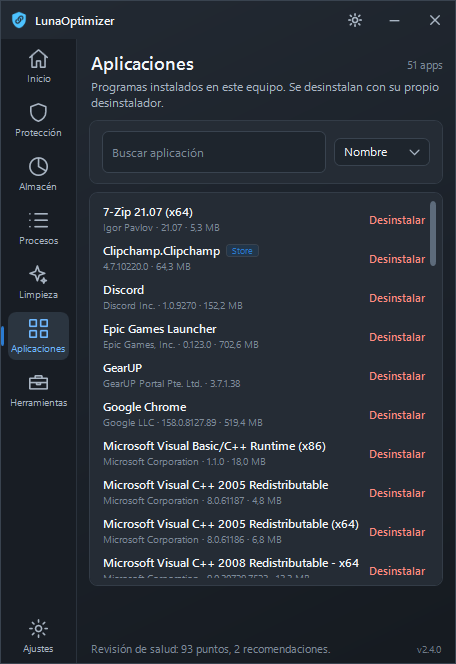
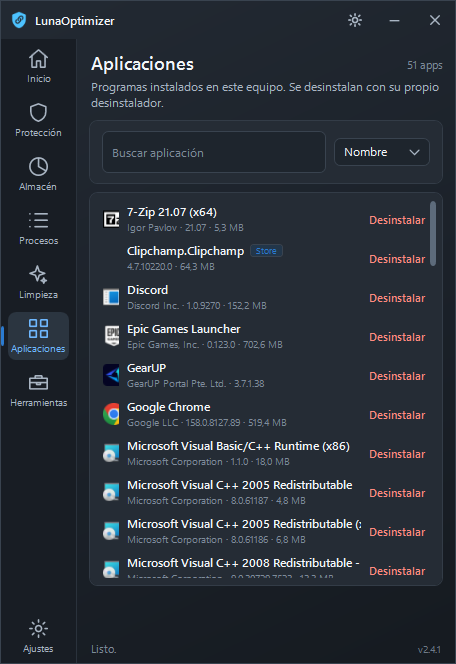
feat: iconos en la lista de apps y alineacion (v2.4.1)
- InstalledApp.Icon: se saca del DisplayIcon del registro (acepta ',0',
  comillas y variables de entorno) o del .exe mas grande de la carpeta de
  instalacion, en paralelo y con tope de 5 s.
- Las filas sin icono reservan el mismo ancho: el texto queda alineado.
- Nombre con MaxWidth + ellipsis para que no se meta debajo de Desinstalar.

Changed region(s): [[0.2149, 0.3012, 0.7982, 0.8735], [0.1842, 0.9639, 0.7061, 0.994], [0.9211, 0.9639, 0.9825, 0.994]]

diff --git a/LunaOptimizer/Views/AppsView.xaml b/LunaOptimizer/Views/AppsView.xaml
@@ -67,14 +67,19 @@
                         <DataTemplate>
                             <Grid>
                                 <Grid.ColumnDefinitions>
+                                    <ColumnDefinition Width="24"/>
                                     <ColumnDefinition Width="*"/>
                                     <ColumnDefinition Width="Auto"/>
                                 </Grid.ColumnDefinitions>
-                                <StackPanel Grid.Column="0" VerticalAlignment="Center" Margin="0,0,8,0">
+                                <!-- Siempre ocupa 22 px: si la app no tiene icono, el
+                                     texto igual queda alineado con las demas filas. -->
+                                <Image Source="{Binding Icon}" Width="22" Height="22" Stretch="Uniform"
+                                       VerticalAlignment="Center" Margin="0,0,8,0"/>
+                                <StackPanel Grid.Column="1" VerticalAlignment="Center" Margin="0,0,8,0">
                                     <StackPanel Orientation="Horizontal">
                                         <TextBlock Text="{Binding Name}" FontSize="11.5" FontWeight="SemiBold"
                                                    Foreground="{DynamicResource B_Text}"
-                                                   TextTrimming="CharacterEllipsis"/>
+                                                   TextTrimming="CharacterEllipsis" MaxWidth="190"/>
                                         <Border Margin="6,0,0,0" VerticalAlignment="Center" Padding="5,0"
                                                 CornerRadius="3" BorderThickness="1"
                                                 BorderBrush="{DynamicResource B_Border}"
@@ -97,7 +102,7 @@
                                                Foreground="{DynamicResource B_Muted}"
                                                TextTrimming="CharacterEllipsis" Margin="0,1,0,0"/>
                                 </StackPanel>
-                                <Button Grid.Column="1" Content="Desinstalar" Tag="{Binding}"
+                                <Button Grid.Column="2" Content="Desinstalar" Tag="{Binding}"
                                         Click="BtnUninstall_Click" Style="{StaticResource LinkBtn}"
                                         Foreground="{DynamicResource B_Red}" FontSize="11"
                                         VerticalAlignment="Center"/>

diff --git a/LunaOptimizer/Services/AppUninstallerService.cs b/LunaOptimizer/Services/AppUninstallerService.cs
@@ -42,6 +42,9 @@ public class InstalledApp
     public bool IsStore => KeyPath.IndexOf("WindowsApps", StringComparison.OrdinalIgnoreCase) >= 0;
 
     /// Paquete MSIX/Store (se desinstala con Remove-AppxPackage, no con el registro).
+    /// Icono del programa, para que la lista se vea como la de PC Manager.
+    public System.Windows.Media.Imaging.BitmapSource? Icon { get; set; }
+
     public string? PackageFullName { get; set; }
     public bool EsAppx => !string.IsNullOrEmpty(PackageFullName);
 }
@@ -320,6 +323,61 @@ public static class AppUninstallerService
             AppLog.Error(ex, "desinstalando app Store " + app.Name);
             return (-1, ex.Message);
         }
+    }
+
+    // ===================== Iconos =====================
+    // PC Manager lista las apps con su icono. Se saca del DisplayIcon del registro
+    // ("C:\ruta\app.exe,0", a veces entre comillas o con variables de entorno) o,
+    // si no hay, del primer .exe de la carpeta de instalacion. Corre en paralelo y
+    // con tope de tiempo: un icono lento no puede demorar la lista.
+
+    public static void CargarIconos(IEnumerable<InstalledApp> apps, int presupuestoMs = 5000)
+    {
+        var reloj = System.Diagnostics.Stopwatch.StartNew();
+        try
+        {
+            Parallel.ForEach(apps.Where(a => a.Icon is null), new ParallelOptions { MaxDegreeOfParallelism = 4 }, app =>
+            {
+                if (reloj.ElapsedMilliseconds > presupuestoMs) return;
+                try
+                {
+                    string? exe = ExeParaIcono(app);
+                    if (exe is null) return;
+                    app.Icon = IconHelper.Extract(exe);
+                }
+                catch { }
+            });
+        }
+        catch { }
+    }
+
+    private static string? ExeParaIcono(InstalledApp app)
+    {
+        // 1) DisplayIcon del registro
+        string icono = (app.DisplayIcon ?? "").Trim().Trim('"');
+        if (icono.Length > 0)
+        {
+            try { icono = Environment.ExpandEnvironmentVariables(icono); } catch { }
+            int coma = icono.LastIndexOf(',');
+            if (coma > 2 && int.TryParse(icono[(coma + 1)..].Trim(), out _))
+                icono = icono[..coma];
+            icono = icono.Trim().Trim('"');
+            if (File.Exists(icono) && icono.EndsWith(".exe", StringComparison.OrdinalIgnoreCase)) return icono;
+            if (File.Exists(icono) && icono.EndsWith(".ico", StringComparison.OrdinalIgnoreCase)) return icono;
+        }
+
+        // 2) primer .exe de la carpeta de instalacion (sin bajar a subcarpetas)
+        if (!string.IsNullOrWhiteSpace(app.InstallLocation) && Directory.Exists(app.InstallLocation))
+        {
+            try
+            {
+                return Directory.EnumerateFiles(app.InstallLocation, "*.exe", SearchOption.TopDirectoryOnly)
+                    .OrderByDescending(f => new FileInfo(f).Length)
+                    .FirstOrDefault();
+            }
+            catch { }
+        }
+        return null;
     }
 
     // ===================== Restos de una desinstalacion =====================

diff --git a/LunaOptimizer/Views/AppsView.xaml.cs b/LunaOptimizer/Views/AppsView.xaml.cs
@@ -63,6 +63,11 @@ public partial class AppsView : UserControl
                 await Task.Run(() => AppUninstallerService.MedirTamanoApps(store));
                 Dispatcher.Invoke(ApplyFilter);
             }
+
+            // 4) Iconos, al final: un icono lento no puede demorar la lista.
+            var foto = _all.ToList();
+            await Task.Run(() => AppUninstallerService.CargarIconos(foto));
+            Dispatcher.Invoke(ApplyFilter);
         }
         catch (Exception ex)
         {

diff --git a/README.md b/README.md
@@ -30,6 +30,9 @@ grande para mejorar el rendimiento.
 - **Columna CPU** en Procesos, muestreada entre refrescos (sin dormir el hilo): el primer
   refresco la deja vacía y a los 1,5 s aparece sola. PC Manager no la muestra, así que esto
   es "un poco mejor".
+- **Iconos en la lista de Aplicaciones**: se sacan del `DisplayIcon` del registro o del
+  primer `.exe` de la carpeta de instalación, en paralelo y con tope de tiempo. Las que no
+  tienen icono igual quedan alineadas.
 - **Ordenar** por RAM, CPU o nombre, y en Aplicaciones por nombre o tamaño.
 - **Aplicaciones de la Store con etiqueta `Store`**, y subtítulo que arma
   `editor · versión · tamaño` salteando los datos que faltan (antes quedaba un `·` suelto).
@@ -121,7 +124,7 @@ Un TEMP de 30.000 archivos pasó de **~43 s a ~4 s**. Lo que se cambió:
 ## Descargar
 
 1. Entra en **[Releases](../../releases/latest)** y descarga el `.exe`
-   (**`LunaOptimizer-V2.4.0.exe`**).
+   (**`LunaOptimizer-V2.4.1.exe`**).
 2. Doble clic → acepta el **UAC** (Windows pide permiso de administrador).
 3. Listo: no hay instalador, puedes dejarlo en el Escritorio o en una memoria USB.
 
